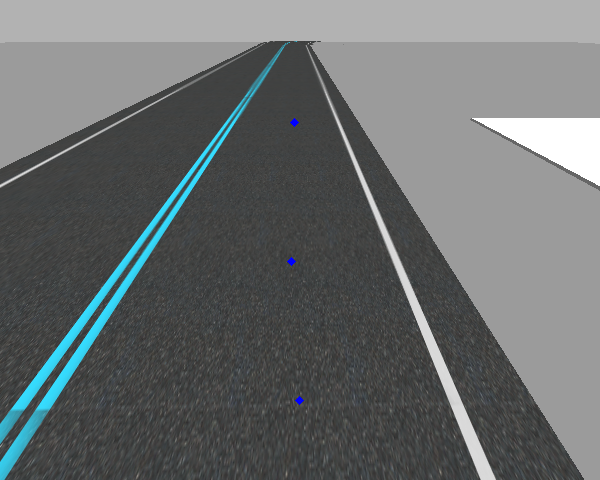
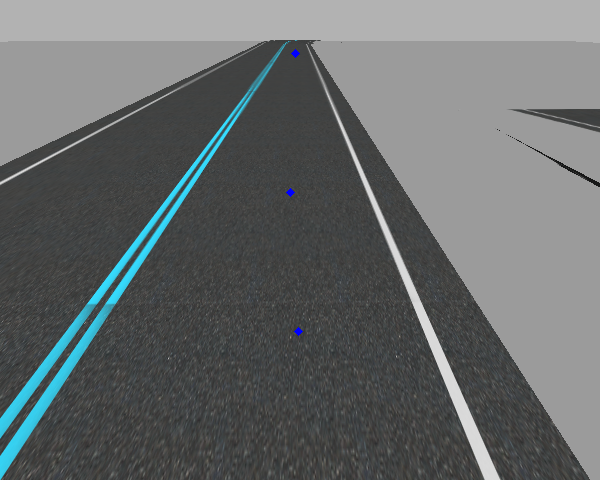
minor changes

diff --git a/CameraPlugin.cc b/CameraPlugin.cc
@@ -72,7 +72,7 @@ void CameraPlugin::OnUpdate()
     
     
     // Create sub ROIs
-    int n_sub = 3;
+    int n_sub = 2;
     int interval = (ROI_hi-ROI_lo)/n_sub;
     
     int sub_lo = ROI_lo;
@@ -107,7 +107,7 @@ void CameraPlugin::OnUpdate()
     {
         int lo = ROI_lo + i * interval;
         int hi = lo + interval;
-        Point pt = vanishPoint(proc_subs[i], (lo+hi)/2);
+        Point pt = vanishPoint(proc_subs[i], lo);
         pts.push_back(pt);
         
         circle(image, pt, 2, Scalar(255,0,0), 3);
